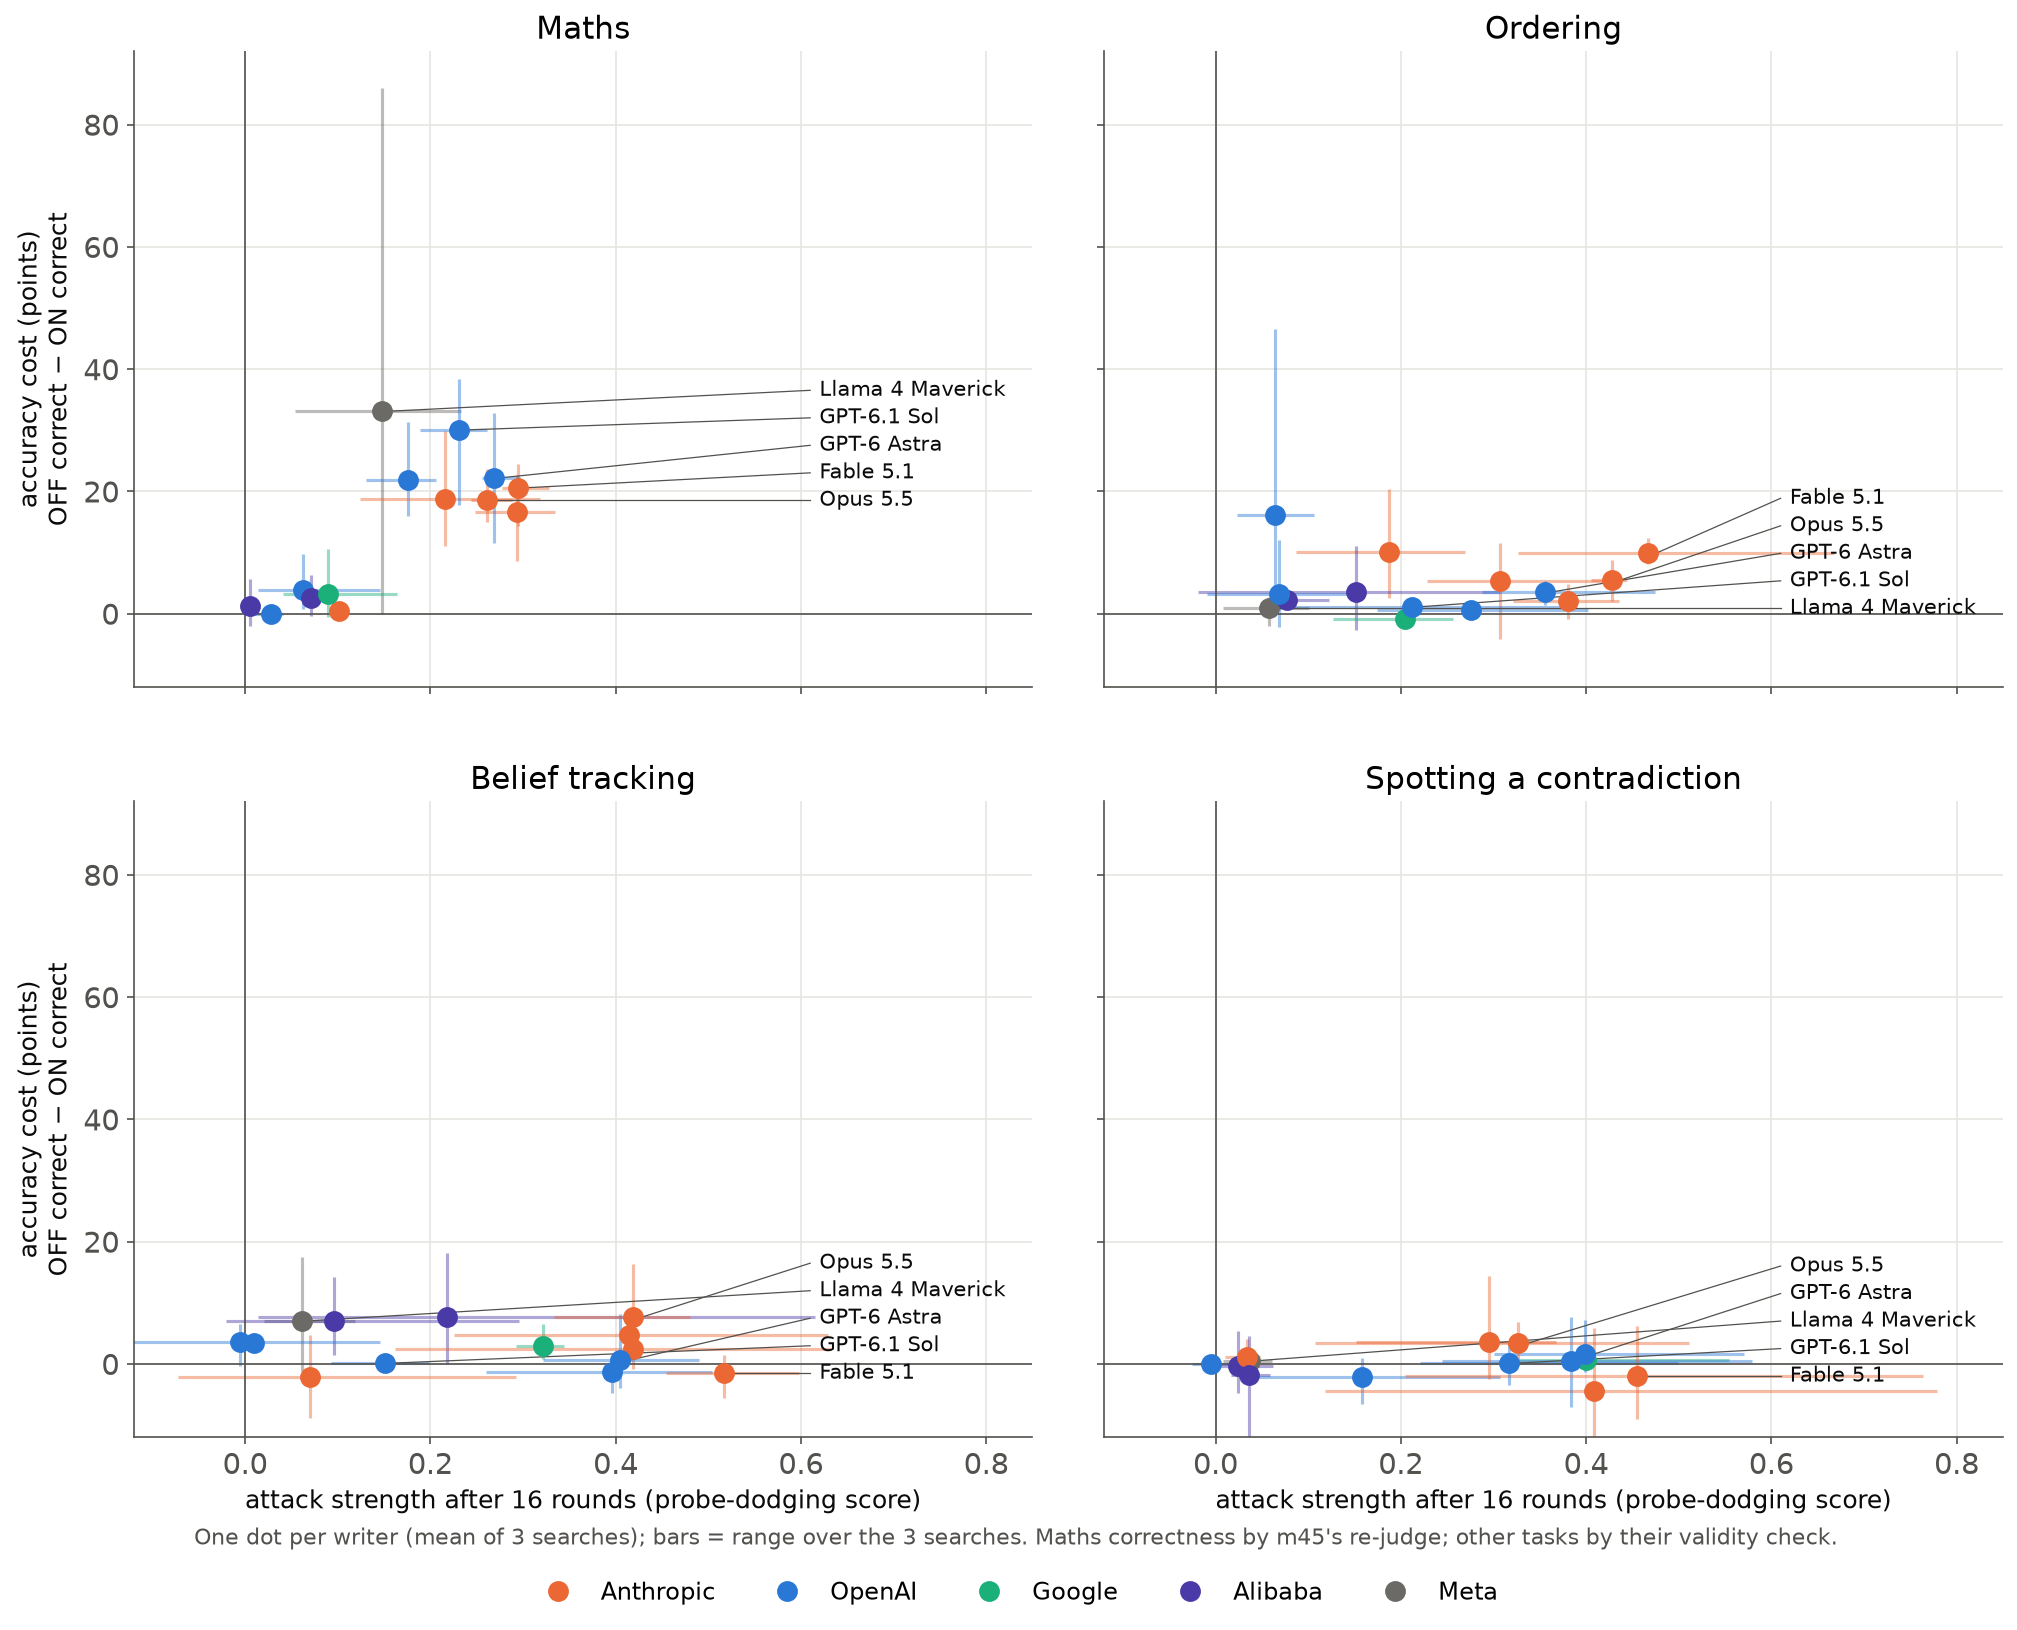
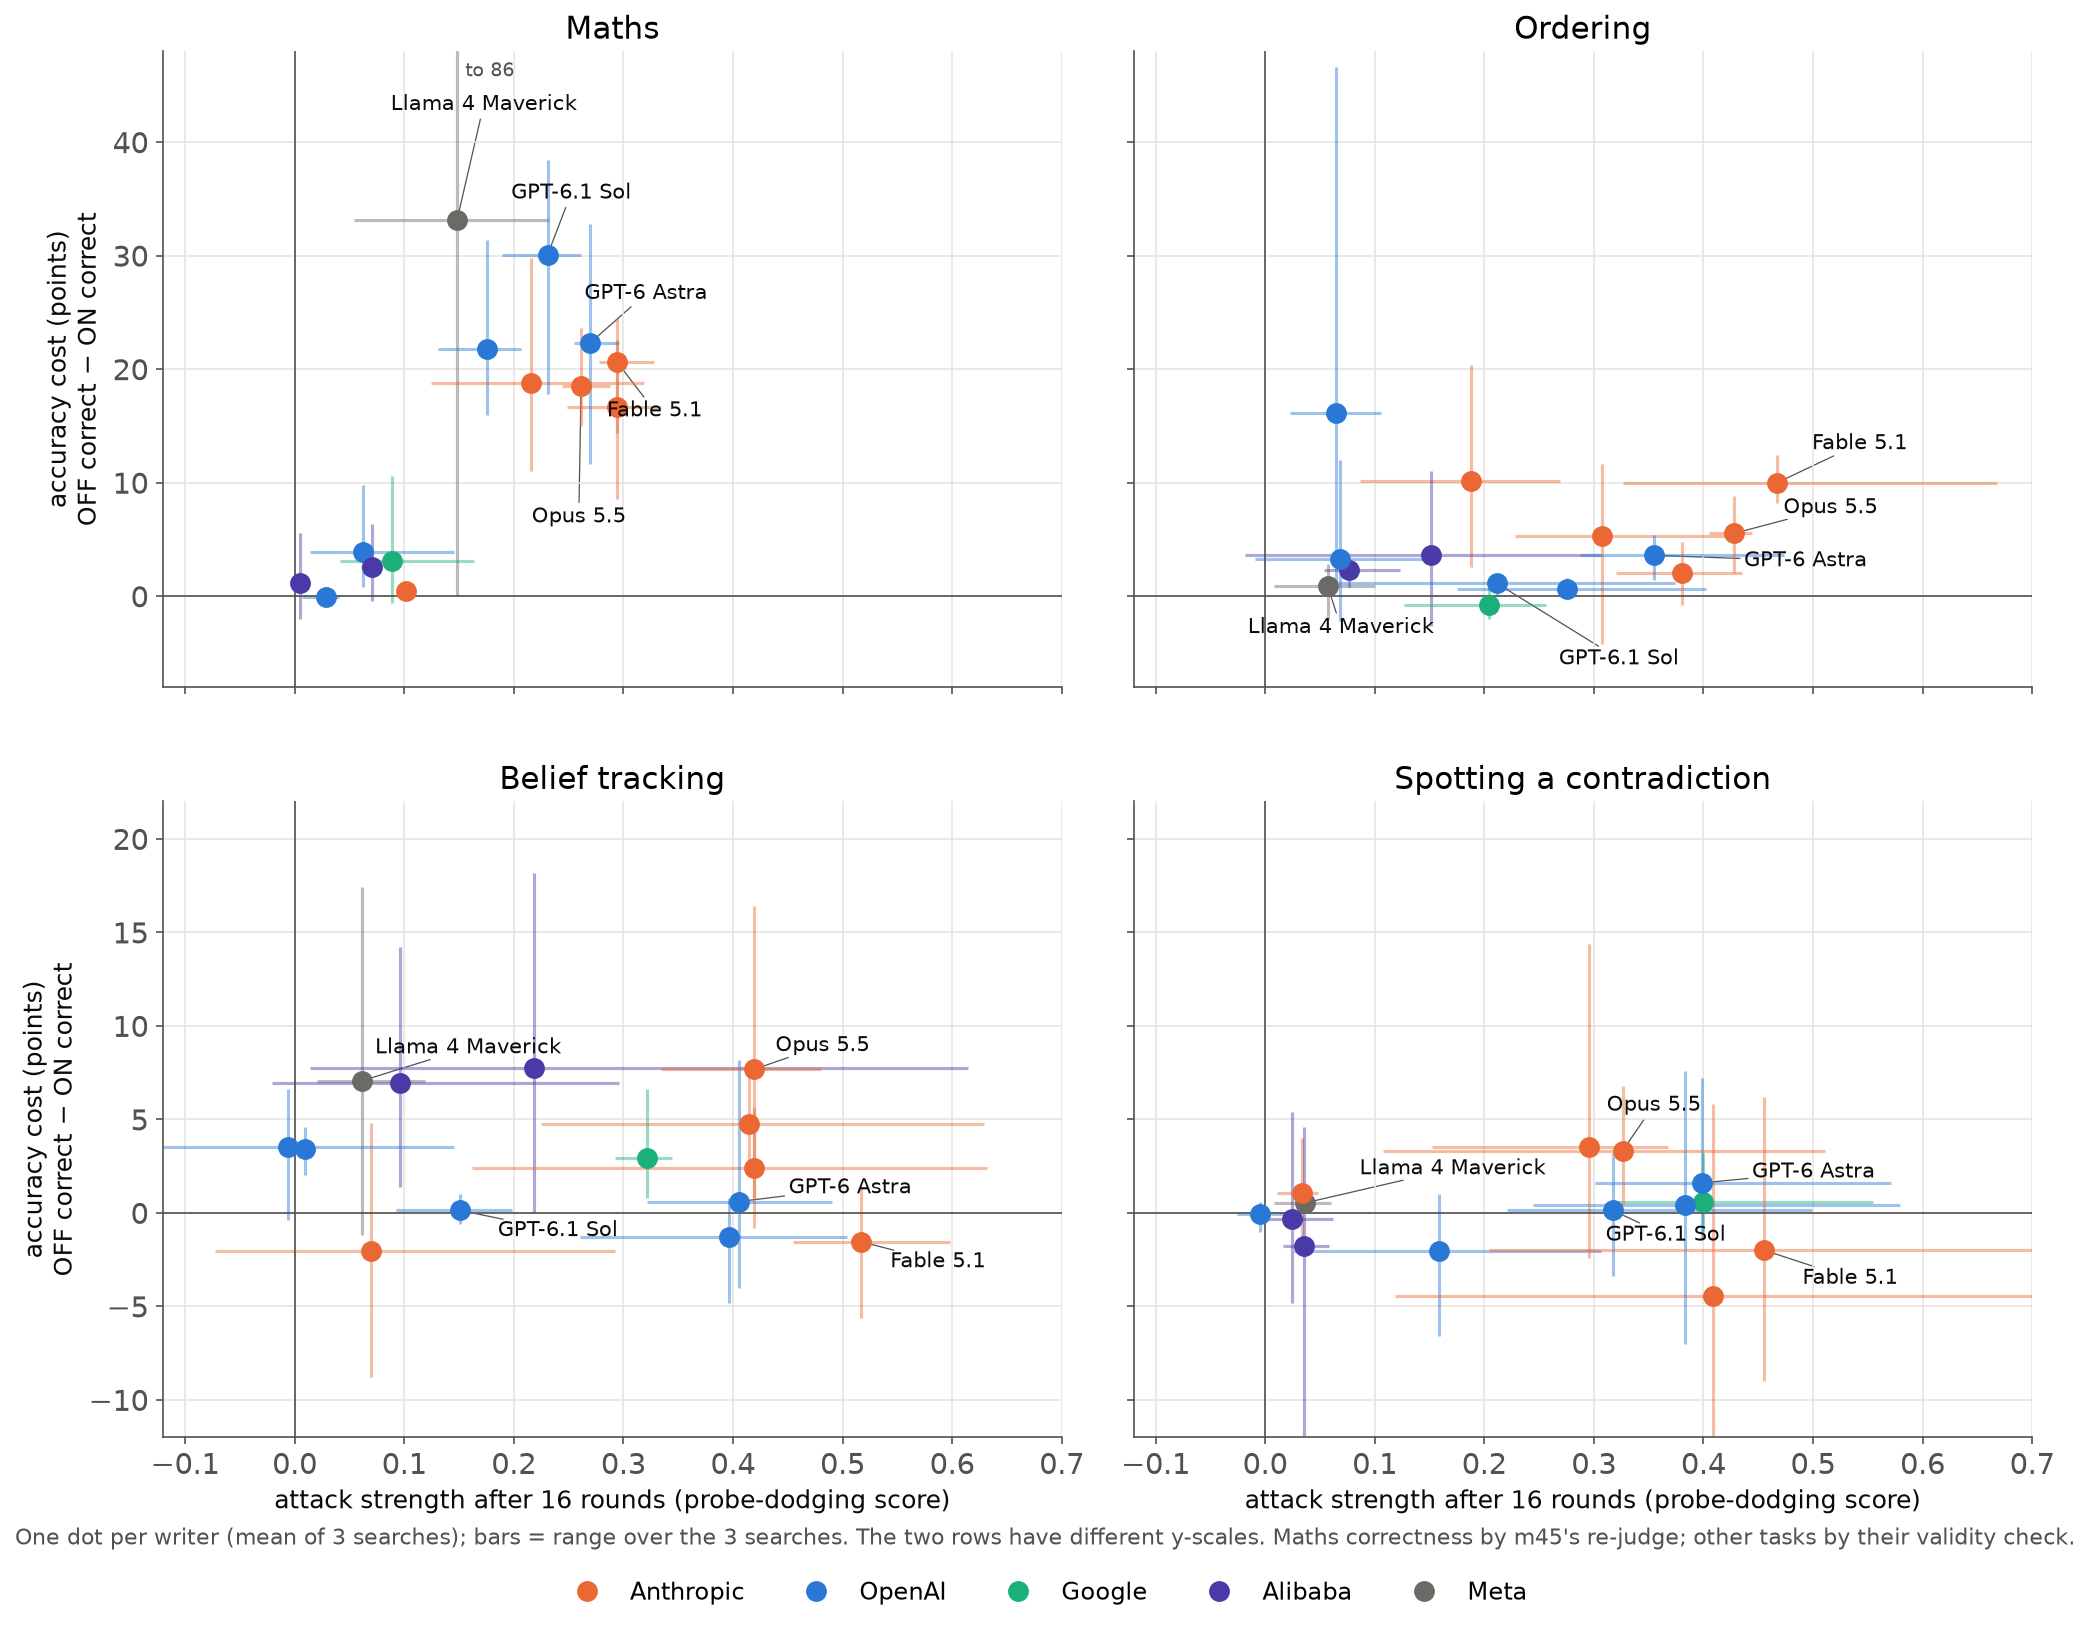
Cost figure: labels placed next to their dots (adjustText), per-row y-scales

diff --git a/analysis/post_v9/fig_cost.py b/analysis/post_v9/fig_cost.py
@@ -11,6 +11,7 @@ from pathlib import Path
 
 import matplotlib.pyplot as plt
 import numpy as np
+from adjustText import adjust_text
 from matplotlib.lines import Line2D
 
 HERE = Path(__file__).resolve().parent
@@ -19,9 +20,8 @@ FIG = importlib.util.module_from_spec(_spec)
 _spec.loader.exec_module(FIG)
 F, NUMBERS = FIG.F, FIG.NUMBERS
 LABELLED = {**FIG.KEY_WRITERS, "llama4maverick": "Llama 4 Maverick"}
-X_LIMITS, Y_LIMITS = (-0.12, 0.85), (-12, 92)
-LABEL_X = 0.62  # labels sit in a column right of the data, with leader lines to their dots
-LABEL_GAP = 4.5  # minimum vertical gap between labels (points of accuracy)
+X_LIMITS = (-0.12, 0.7)
+Y_LIMITS = {"maths": (-8, 48), "ordering": (-8, 48), "false_belief": (-12, 22), "contradiction": (-12, 22)}  # per row: room for labels
 
 
 def panel(ax, task: str, title: str, meta: dict) -> None:
@@ -33,27 +33,29 @@ def panel(ax, task: str, title: str, meta: dict) -> None:
         ax.hlines(y, min(chains[w]), max(chains[w]), color=colour, lw=1.5, alpha=0.45)
         ax.vlines(x, min(cost["cost_points_chains"]), max(cost["cost_points_chains"]), color=colour, lw=1.5, alpha=0.45)
         ax.plot(x, y, "o", ms=9, color=colour, zorder=3)
-    keys = list(LABELLED)
-    ys = [t["accuracy_cost"][w]["cost_points"] for w in keys]
-    order = np.argsort(ys)
-    placed = np.array(ys, dtype=float)
-    for a, b in zip(order, order[1:]):
-        placed[b] = max(placed[b], placed[a] + LABEL_GAP)
-    for w, y_label in zip(keys, placed):
-        x, y = strength[w], t["accuracy_cost"][w]["cost_points"]
-        ax.plot([x + 0.01, LABEL_X - 0.01], [y, y_label], color=F.v6.MUTED, lw=0.6, zorder=2)
-        ax.text(LABEL_X, y_label, LABELLED[w], va="center", fontsize=10, color=F.v6.TEXT)
+    xs = [strength[w] for w in t["accuracy_cost"]]
+    ys = [c["cost_points"] for c in t["accuracy_cost"].values()]
+    texts = [ax.text(strength[w], t["accuracy_cost"][w]["cost_points"], LABELLED[w], fontsize=10, color=F.v6.TEXT, zorder=4)
+             for w in LABELLED]
+    # labels next to their dots, nudged off every dot and each other, with a thin pointer where moved
+    adjust_text(texts, x=xs, y=ys, ax=ax, expand=(1.5, 2.0), force_text=(0.6, 0.9), force_static=(0.5, 0.8),
+                arrowprops=dict(arrowstyle="-", color=F.v6.MUTED, lw=0.6))
     ax.axhline(0, color=F.v6.MUTED, lw=0.8)
     ax.axvline(0, color=F.v6.MUTED, lw=0.8)
     ax.set_title(title, fontsize=15)
     ax.grid(color=F.v6.GRID)
     ax.set_xlim(*X_LIMITS)
-    ax.set_ylim(*Y_LIMITS)
+    ax.set_ylim(*Y_LIMITS[task])
+    top = Y_LIMITS[task][1]
+    for w, cost in t["accuracy_cost"].items():  # a search bar that runs off the top: say where it ends
+        hi = max(cost["cost_points_chains"])
+        if hi > top:
+            ax.annotate(f"to {hi:.0f}", (strength[w], top), xytext=(4, -12), textcoords="offset points", fontsize=9, color=F.v6.MUTED)
 
 
 def main() -> None:
     meta = {r["writer"]: r for r in F.writer_rows(F.load_m45(), "maths")}
-    fig, axes = plt.subplots(2, 2, figsize=(14, 11), sharex=True, sharey=True, gridspec_kw={"hspace": 0.18, "wspace": 0.08})
+    fig, axes = plt.subplots(2, 2, figsize=(14, 11), sharex=True, sharey="row", gridspec_kw={"hspace": 0.18, "wspace": 0.08})
     for ax, (task, title) in zip(axes.flat, FIG.PANELS.items()):
         panel(ax, task, title, meta)
     for ax in axes[-1]:
@@ -62,8 +64,8 @@ def main() -> None:
         ax.set_ylabel("accuracy cost (points)\nOFF correct − ON correct", fontsize=12)
     handles = [Line2D([], [], marker="o", ls="", ms=9, color=c, label=lab) for lab, c in F.LAB_COLOUR.items()]
     fig.legend(handles=handles, loc="lower center", ncol=5, frameon=False, fontsize=11.5, bbox_to_anchor=(0.5, -0.005))
-    fig.text(0.5, 0.045, "One dot per writer (mean of 3 searches); bars = range over the 3 searches. Maths correctness by "
-             "m45's re-judge; other tasks by their validity check.", ha="center", fontsize=10.5, color=F.v6.MUTED)
+    fig.text(0.5, 0.045, "One dot per writer (mean of 3 searches); bars = range over the 3 searches. The two rows have different y-scales. "
+             "Maths correctness by m45's re-judge; other tasks by their validity check.", ha="center", fontsize=10.5, color=F.v6.MUTED)
     fig.subplots_adjust(left=0.08, right=0.97, top=0.95, bottom=0.11)
     fig.savefig(HERE / "figures" / "cost_2x2.png", bbox_inches="tight")
     plt.close(fig)
